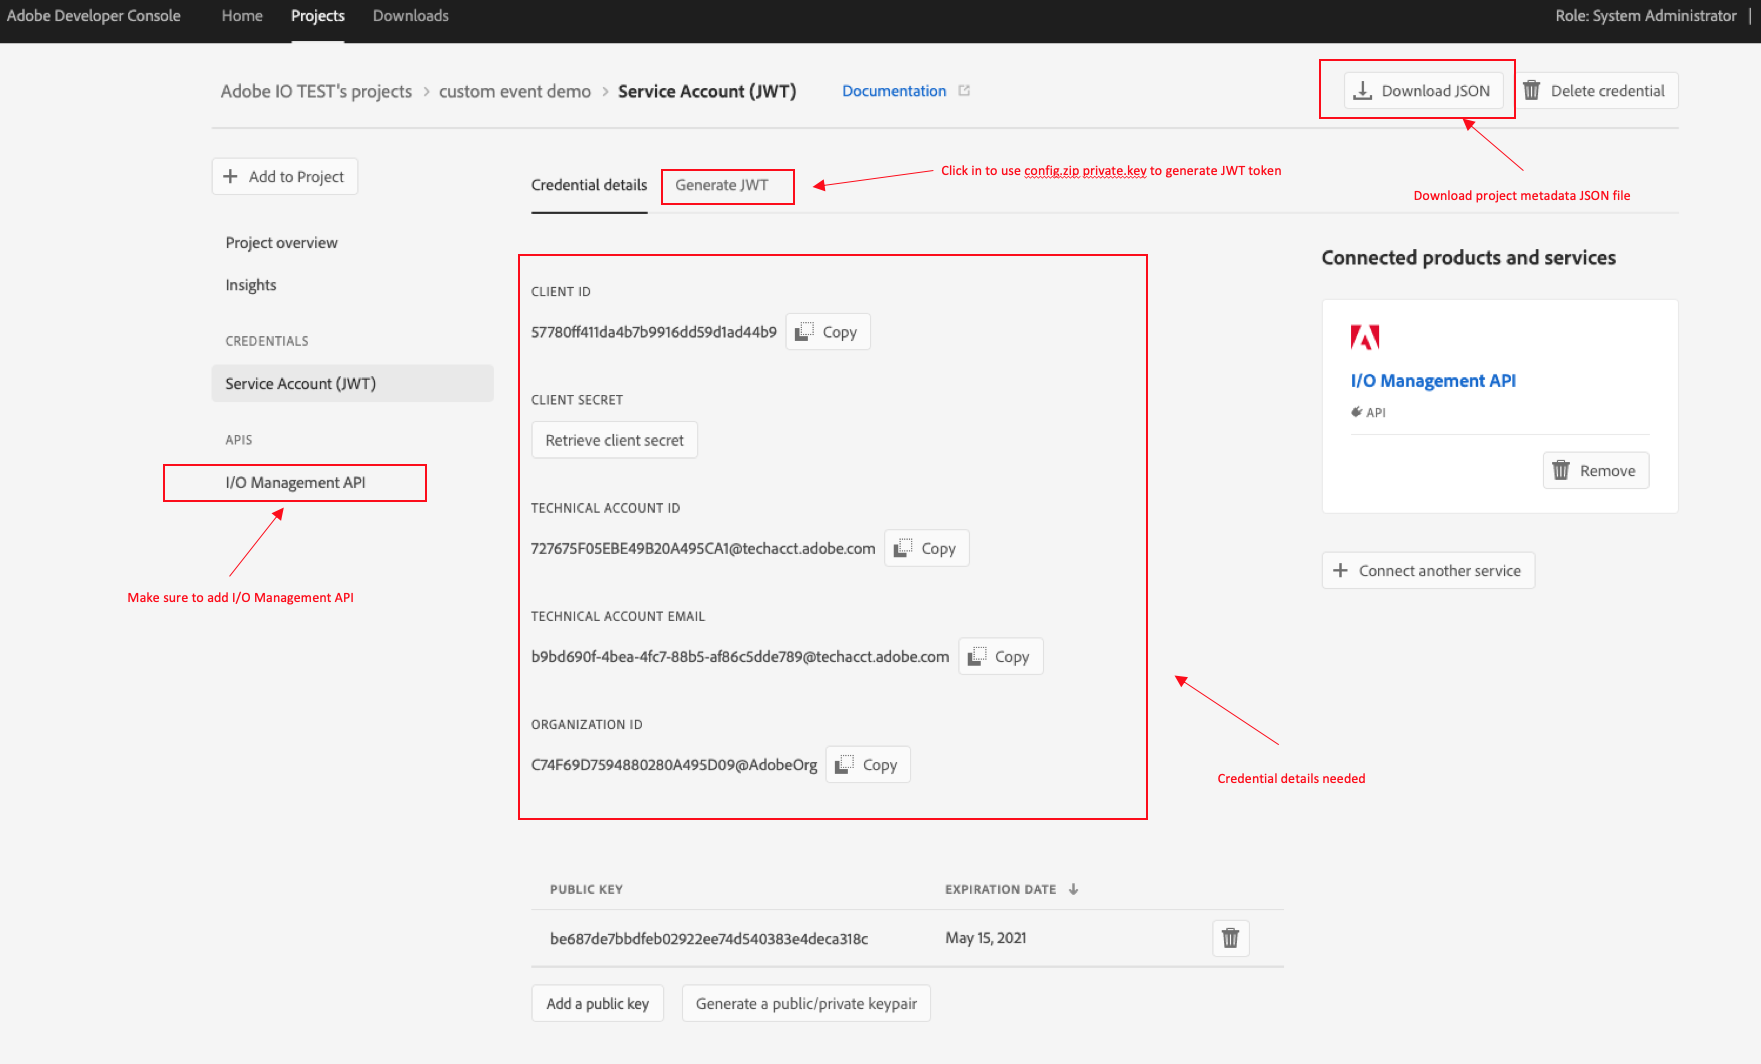
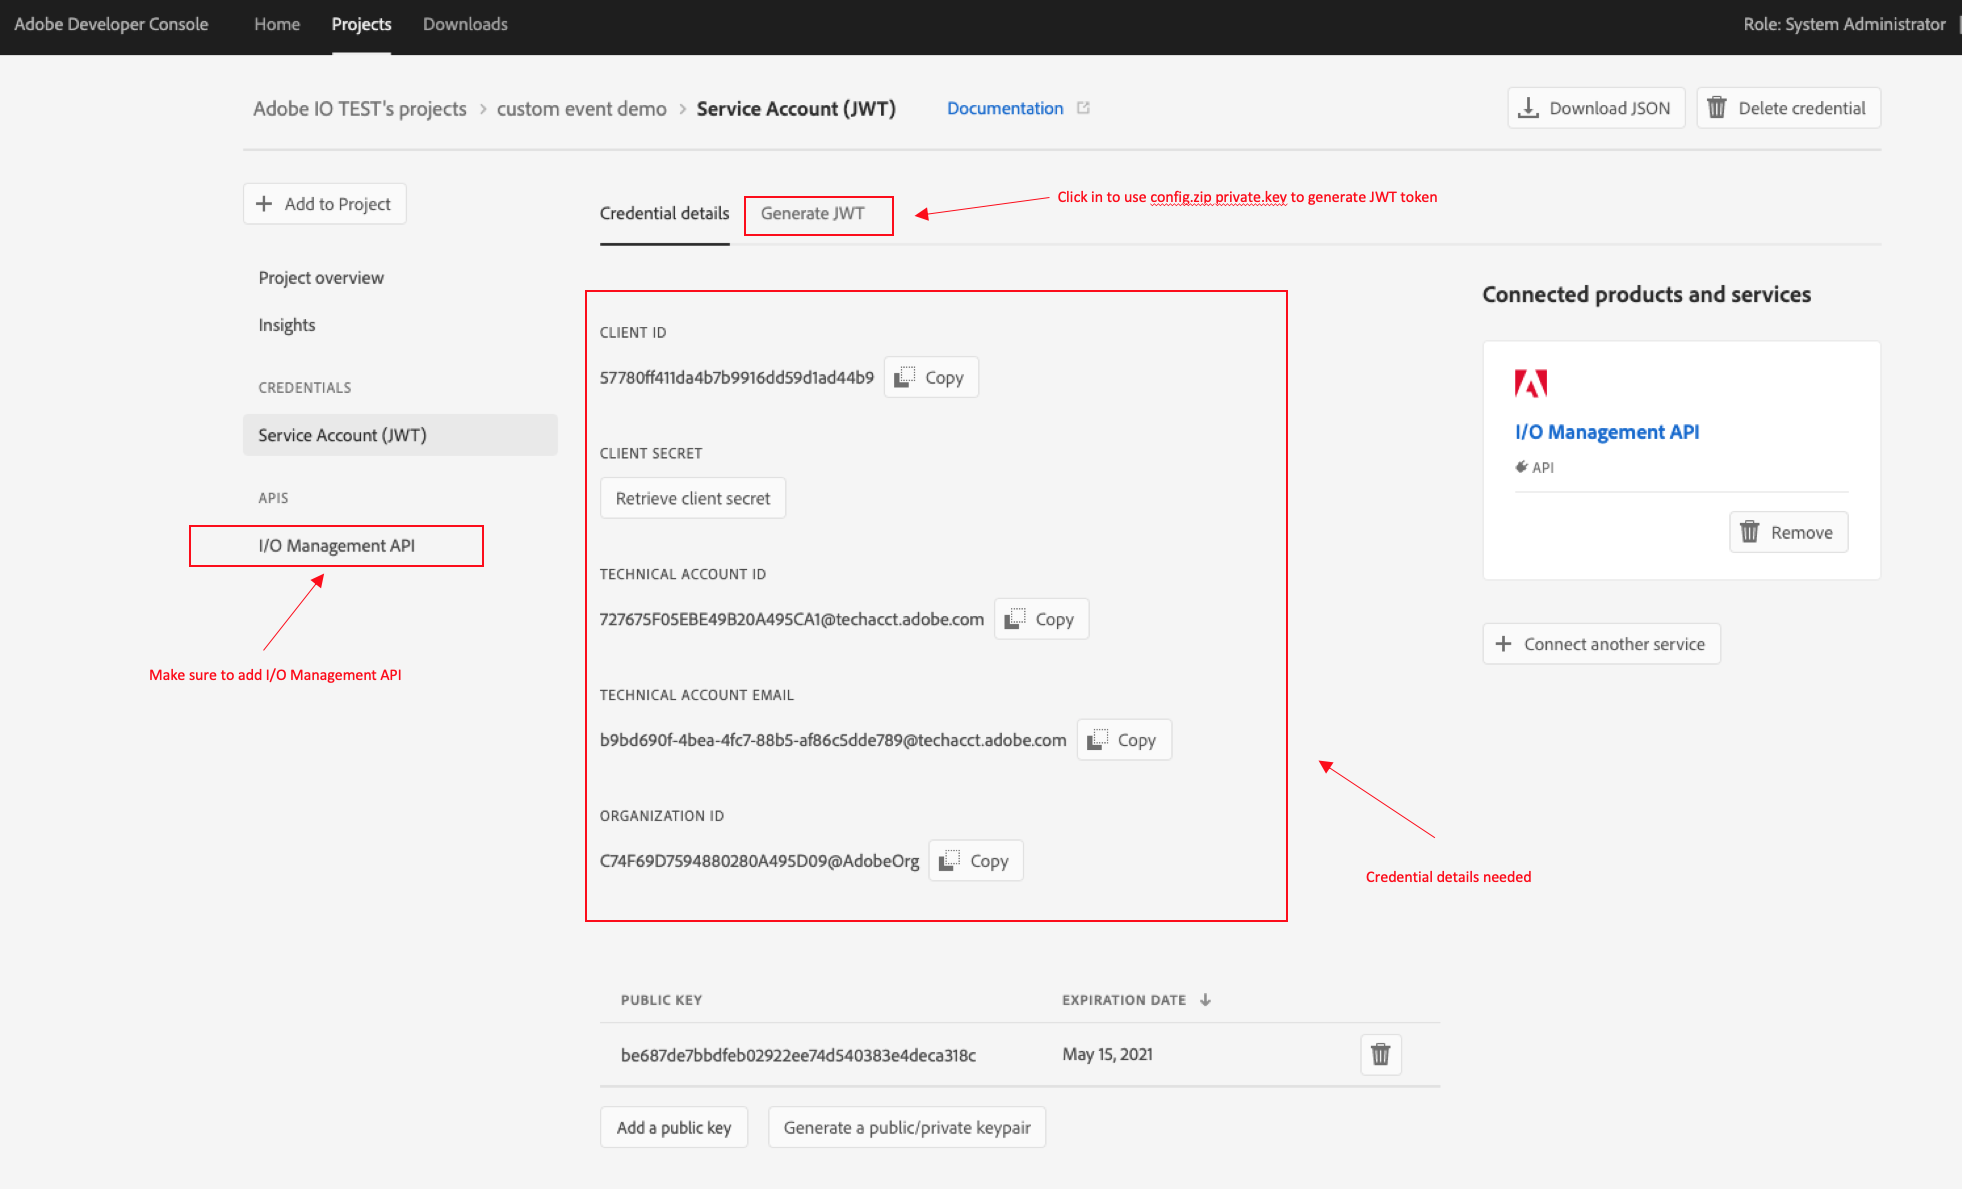
add more screenshot

diff --git a/lessons/lesson1.md b/lessons/lesson1.md
@@ -16,10 +16,12 @@ In order to use custom event SDK, you need to get below informtion from console 
 3. follow the steps to configure API, create a new service account (JWT) credential, `config.zip` will be
 downloaed automatically, you will need the private key to generate JWT token 
 
-4. Get credential details information, generate JWT and download the JSON file
+4. Go to `project overview` tab, download project metadata from below `download` button and get the needed info from this `.json`file 
+![download](assets/download.png)
+![projectjson](assets/project-json.png)
+
+5. Get credential details information, generate JWT 
 ![console](assets/console.png)
-
-
 
 Now you should get all the information you need to start using your Event SDK 
 

diff --git a/lessons/lesson2.md b/lessons/lesson2.md
@@ -31,17 +31,17 @@ Filling in the information from lesson 1 console integration, you can choose imp
 ```javascript
 EVENTS_ORG_ID=
 EVENTS_API_KEY=
-EVENTS_JWT_TOKEN=
+EVENTS_CONSUMER_ORG_ID=
 EVENTS_WORKSPACE_ID=
 EVENTS_PROJECT_ID=
 EVENTS_INTEGRATION_ID=
 ```
 
 3. Set environment varialbles
-run `export` in terminal or use IDE, etc 
+run in terminal or use IDE 
 ```bash
-EVENTS_BASE_URL='https://api.adobe.io'
-EVENTS_INGRESS_URL='https://eventsingress.adobe.io'
+export EVENTS_INGRESS_URL='https://eventsingress-stage.adobe.io'
+export EVENTS_BASE_URL='https://api-stage.adobe.io'
 ```
 
 
